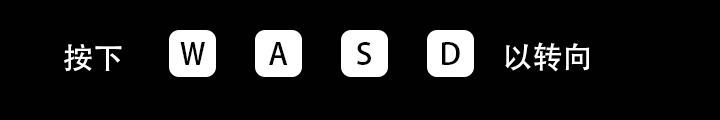
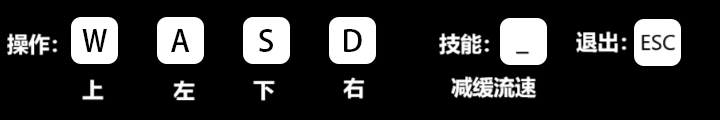
add tool module. change picture introduction.png

diff --git a/pac_man/main.cpp b/pac_man/main.cpp
@@ -11,6 +11,7 @@ import character;
 import draw;
 import music;
 import map;
+import tool;
 
 using namespace std;
 using namespace chrono;
@@ -18,7 +19,7 @@ using namespace chrono;
 namespace g
 {
 	auto start{chrono::system_clock::now()};
-	auto end{chrono::system_clock::now()};
+	auto startTime{ chrono::system_clock::now() };
 
 	double time{0};
 	int num{0}, num1{0}, g1_track_x{0}, g1_track_y{0};
@@ -32,7 +33,9 @@ namespace g
 
 	ExMessage key{ 0 }, msg{ 0 }, k_m{ 0 };
 
-	static bool isWin{true};
+	bool isWin{true};
+	unsigned long long score{ 0 };
+
 }
 
 // 函数列表
@@ -44,8 +47,9 @@ optional<int> game_end(bool is_win);
 
 int main(int argc, char* argv[])
 {
-BEGIN:
 	using namespace g;
+
+BEGIN:
 
 	// 确保正确初始化
 	try {
@@ -76,6 +80,7 @@ BEGIN:
 
 	// 游戏主程序
 	{
+		g::startTime = chrono::system_clock::now();
 		auto gameStatue = game_core();
 		switch (gameStatue.value()) {
 		case -1:
@@ -245,8 +250,11 @@ optional<int> game_core()
 		mciSendString("play ../src/music/start.mp3 repeat", nullptr, 0, nullptr);
 	}
 
+
 	while (true) {
+
 		g::start = chrono::system_clock::now();
+		
 
 		for (int i = 0; i < 40; i++) {
 			for (int j = 0; j < 20; j++) {
@@ -471,18 +479,22 @@ optional<int> game_core()
 		}
 
 		// 每次渲染间隔时间
-		Sleep(30);
-		FlushBatchDraw();
-		cleardevice();
+		{
+			Sleep(30);
+			FlushBatchDraw();
+			cleardevice();
 
-		g::end = chrono::system_clock::now();
-		auto duration = chrono::duration_cast<chrono::milliseconds>(g::end - g::start);
+			auto end = chrono::system_clock::now();
+			auto duration = chrono::duration_cast<chrono::milliseconds>(end - g::start);
 
-		g::time += static_cast<double>(duration.count());
+			g::time += static_cast<double>(duration.count());
 
-		if (g::time >= close_time) {
-			player.close = !player.close;
-			g::time = 0;
+			if (g::time >= close_time) {
+				player.close = !player.close;
+				g::time = 0;
+			}
+			g::score++;
+			cout << score << '\n';
 		}
 	}
 }
@@ -496,15 +508,8 @@ optional<int> game_end(bool is_win)
 {
 	using namespace g;
 
-	auto end = chrono::system_clock::now();
-
-	auto elapsed = end - g::start;
-	auto seconds = chrono::duration_cast<chrono::seconds>(elapsed).count();
-	double double_seconds = static_cast<double>(seconds);
-	stringstream ss;
-	ss << double_seconds;
-	string str = ss.str();
-	const char* text = str.c_str();
+	auto text = std::string(cast2String(g::score)).c_str();
+	std::cout << "Final Score:" << text;
 
 	// 获胜
 	if (is_win) {
@@ -517,7 +522,6 @@ optional<int> game_end(bool is_win)
 		}
 		// 打印到屏幕
 		{
-			auto duration = chrono::duration_cast<chrono::milliseconds>(g::end - g::start);
 			setlinecolor(WHITE);
 			settextcolor(WHITE);
 			setfillcolor(BLACK);
@@ -554,7 +558,7 @@ optional<int> game_end(bool is_win)
 			settextstyle(40, 0, "Elephant");
 			outtextxy(300, 750, "MENU");
 			settextstyle(30, 0, "Elephant");
-			outtextxy(200, 700, "TIME(s): ");
+			outtextxy(200, 700, "SCORE: ");
 			outtextxy(300, 700, text);
 			FlushBatchDraw();
 		}
